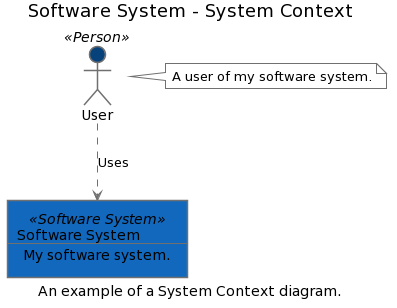
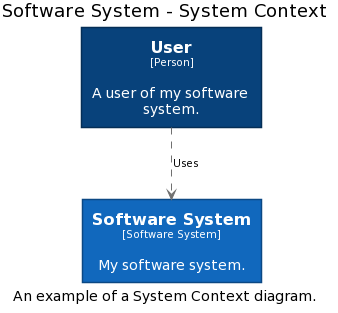
Updated docs.

diff --git a/structurizr-examples/src/com/structurizr/example/PlantUML.java b/structurizr-examples/src/com/structurizr/example/PlantUML.java
@@ -1,8 +1,10 @@
 package com.structurizr.example;
 
 import com.structurizr.Workspace;
+import com.structurizr.io.plantuml.AbstractPlantUMLWriter;
 import com.structurizr.io.plantuml.PlantUMLDiagram;
 import com.structurizr.io.plantuml.PlantUMLWriter;
+import com.structurizr.io.plantuml.StructurizrPlantUMLWriter;
 import com.structurizr.model.Model;
 import com.structurizr.model.Person;
 import com.structurizr.model.SoftwareSystem;
@@ -37,12 +39,8 @@ public class PlantUML {
         styles.addElementStyle(Tags.SOFTWARE_SYSTEM).background("#1168bd").color("#ffffff");
         styles.addElementStyle(Tags.PERSON).background("#08427b").color("#ffffff").shape(Shape.Person);
 
-        PlantUMLWriter plantUMLWriter = new PlantUMLWriter();
-        Collection<PlantUMLDiagram> plantUMLDiagrams = plantUMLWriter.toPlantUMLDiagrams(workspace);
-        for (PlantUMLDiagram plantUMLDiagram : plantUMLDiagrams) {
-            System.out.println(plantUMLDiagram.getDefinition());
-            System.out.println("");
-        }
+        AbstractPlantUMLWriter plantUMLWriter = new StructurizrPlantUMLWriter();
+        System.out.println(plantUMLWriter.toString(contextView));
     }
 
 }

diff --git a/structurizr-plantuml/README.md b/structurizr-plantuml/README.md
@@ -9,7 +9,7 @@ structurizr-plantuml can export the views in a Structurizr workspace to diagram 
 - Dynamic
 - Deployment
 
-Create your software architecture model and views as usual, and use the [PlantUMLWriter](https://github.com/structurizr/java-extensions/blob/master/structurizr-plantuml/src/com/structurizr/io/plantuml/PlantUMLWriter.java) class to export the views. [For example](https://github.com/structurizr/java-extensions/blob/master/structurizr-examples/src/com/structurizr/example/PlantUML.java):
+Create your software architecture model and views as usual, and use one of the PlantUML writer classes to export the views. [For example](https://github.com/structurizr/java-extensions/blob/master/structurizr-examples/src/com/structurizr/example/PlantUML.java):
 
 ```java
 Workspace workspace = new Workspace("Getting Started", "This is a model of my software system.");
@@ -28,37 +28,38 @@ Styles styles = views.getConfiguration().getStyles();
 styles.addElementStyle(Tags.SOFTWARE_SYSTEM).background("#1168bd").color("#ffffff");
 styles.addElementStyle(Tags.PERSON).background("#08427b").color("#ffffff").shape(Shape.Person);
 
-PlantUMLWriter plantUMLWriter = new PlantUMLWriter();
-plantUMLWriter.toStdOut(workspace);
+AbstractPlantUMLWriter plantUMLWriter = new StructurizrPlantUMLWriter();
+System.out.println(plantUMLWriter.toString(contextView));
 ```
 
 This code will generate and output a PlantUML diagram definition that looks like this:
 
 ```
-@startuml
-scale max 2000x2000
+@startuml(id=SystemContext)
 title Software System - System Context
 caption An example of a System Context diagram.
 
 skinparam {
   shadowing false
-  arrowColor #707070
-  actorBorderColor #707070
-  componentBorderColor #707070
-  rectangleBorderColor #707070
-  noteBackgroundColor #ffffff
-  noteBorderColor #707070
+  arrowFontSize 10
+  defaultTextAlignment center
+  wrapWidth 200
+  maxMessageSize 100
 }
-actor "User" <<Person>> as 1 #08427b
-note right of 1
-  A user of my software system.
-end note
-rectangle 2 <<Software System>> #1168bd [
-  Software System
-  --
-  My software system.
-]
-1 .[#707070].> 2 : Uses
+hide stereotype
+skinparam rectangle<<1>> {
+  BackgroundColor #08427b
+  FontColor #ffffff
+  BorderColor #052E56
+}
+skinparam rectangle<<2>> {
+  BackgroundColor #1168bd
+  FontColor #ffffff
+  BorderColor #0B4884
+}
+rectangle "==User\n<size:10>[Person]</size>\n\nA user of my software system." <<1>> as 1
+rectangle "==Software System\n<size:10>[Software System]</size>\n\nMy software system." <<2>> as 2
+1 .[#707070].> 2 : "Uses"
 @enduml
 ```
 
@@ -66,11 +67,17 @@ If you copy/paste this into [PlantUML online](http://www.plantuml.com/plantuml/)
 
 ![An example PlantUML diagram](docs/images/getting-started.png)
 
+There are three PlantUML writer implementations:
+
+- `StructurizrPlantUMLWriter`: most closely resembles the diagram notation used on the [C4 model website](https://c4model.com), and the [Structurizr](https://structurizr.com) web-based renderer.
+- `PlantUMLWriter`: default PlantUML styling (with UML stereotypes).
+- `C4PlantUMLWriter`: produces diagram definitions that use the [C4-PlantUML macros](https://github.com/RicardoNiepel/C4-PlantUML).
+
 ## Changelog
 
-### 1.4.0 (unreleased)
+### 1.4.0 (6th July 2020)
 
-- Adds a StructurizrPlantUMLWriter, which emulates the style of the Structurizr renderer.
+- Adds a StructurizrPlantUMLWriter, which emulates the style of the Structurizr web-based renderer.
 
 ### 1.3.8 (27th June 2020)
 

diff --git a/structurizr-mermaid/README.md b/structurizr-mermaid/README.md
@@ -52,7 +52,7 @@ If you copy/paste this into the [Mermaid live editor](https://mermaid-js.github.
 
 ## Changelog
 
-### 1.3.6 (unreleased)
+### 1.3.6 (6th July 2020)
 
 - Add support for colouring deployment nodes (text and border).
 - Shape borders are now rendered in a darker version of the background, rather than grey.
